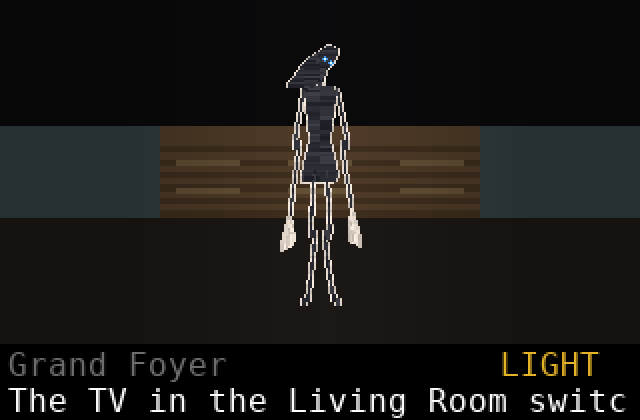
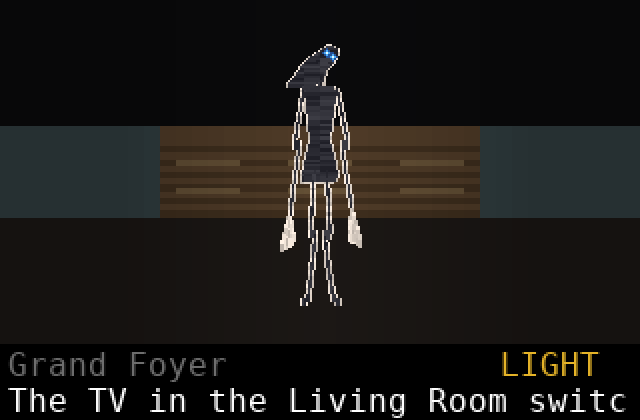
Match Ysolde's eyes to Ivy's video: higher in the head with a blue glow
Claude-Session: https://claude.ai/code/session_01ABga3j6ZJ15ibdVoXrUo56

diff --git a/calc/GHCRYPT.py b/calc/GHCRYPT.py
@@ -358,7 +358,7 @@ def _build_ys():
     hair = [(-18, -6), (-27, 30), (-24, 96), (-6, 70), (8, 100), (20, 60), (17, -6), (10, -24), (-10, -24)]
     _poly_slabs([(140 + lx * ca - ly * sa, 50 + lx * sa + ly * ca) for lx, ly in hair], 0, 4)
     _oval(0, 0, 17, 25, 0, 4)
-    for ex, ey in ((136.5, 57.0), (147.3, 63.0)):
+    for ex, ey in ((137.2, 41.2), (149.1, 48.55)):
         YS.append(((ex - 2) / 256, (ex + 2) / 256, 1 - (ey + 2) / 640, 1 - (ey - 2) / 640, 4))
 
 
@@ -396,23 +396,23 @@ def ys_column(x, left, wid, top, h):
                 g = random.randint(28, 62)
                 c = (g, g, g + 8)
             rect(a, y0, b - a, y1 - y0, c)
-    # eyes like the game's: a soft dark socket, a faint wide blue halo,
-    # a tight blue bloom and a pin-point cold core
+    # eyes like Ivy's video: a wide soft blue glow, a bright blue bloom
+    # and a near-white core, high up in her tilted head
     pts = []
     for pa, pb, v0, v1 in eyes:
         cy = int(top + h * (1 - (v0 + v1) / 2))
         if 2 <= cy <= VH - 4:
             pts.append(((pa + pb) // 2, cy))
-    # eyes like the game's: small and dim, a cold blue glow round a pin-point core
-    r = max(1, int(wid * .01))
-    for cx, cy in pts:
-        for bx0, bx1, by0, by1, c in ((cx - r, cx + r + 1, cy, cy + 1, (60, 150, 230)),
-                                      (cx, cx + 1, cy - r, cy + r + 1, (60, 150, 230)),
-                                      (cx, cx + 1, cy, cy + 1, (225, 248, 255))):
-            ea = max(x, bx0)
-            eb = min(x1, bx1)
-            if eb - ea >= 1:
-                rect(ea, by0, eb - ea, by1 - by0, c)
+    for f, c in ((.03, (35, 80, 150)), (.016, (80, 175, 245)), (.006, (230, 250, 255))):
+        r = max(1 if f > .01 else 0, int(wid * f))
+        for cx, cy in pts:
+            ea = max(x, cx - r)
+            eb = min(x1, cx + r + 1)
+            if eb - ea < 1:
+                continue
+            for dx in range(ea - cx, eb - cx):
+                hh = int((r * r - dx * dx) ** .5)
+                rect(cx + dx, max(0, cy - hh), 1, 2 * hh + 1, c)
 
 
 # ---------- text screens ----------

diff --git a/calc/GHICONS.py b/calc/GHICONS.py
@@ -369,14 +369,20 @@ def crypt(x, y, c):
             if b - a > 2:
                 g = random.randint(28, 62)
                 hline(a + 1, b - 2, row, (g, g, g + 8))
-    # small cold blue eyes
-    for ex, ey in ((136.5, 57.0), (147.3, 63.0)):
+    # glowing blue eyes high in the head, like Ivy's video
+    pts = []
+    for ex, ey in ((137.2, 41.2), (149.1, 48.55)):
         a, b = m(ex, ey)
-        a = int(a)
-        b = int(b)
-        hline(a - 1, a + 1, b, (60, 150, 230))
-        line(a, b - 1, a, b + 1, (60, 150, 230))
-        hline(a, a, b, (225, 248, 255))
+        pts.append((int(a), int(b)))
+    for a, b in pts:
+        hline(a - 1, a + 1, b - 1, (35, 80, 150))
+        hline(a - 2, a + 2, b, (35, 80, 150))
+        hline(a - 1, a + 1, b + 1, (35, 80, 150))
+    for a, b in pts:
+        hline(a - 1, a + 1, b, (80, 175, 245))
+        line(a, b - 1, a, b + 1, (80, 175, 245))
+    for a, b in pts:
+        hline(a, a, b, (230, 250, 255))
     random.seed()
 
 
